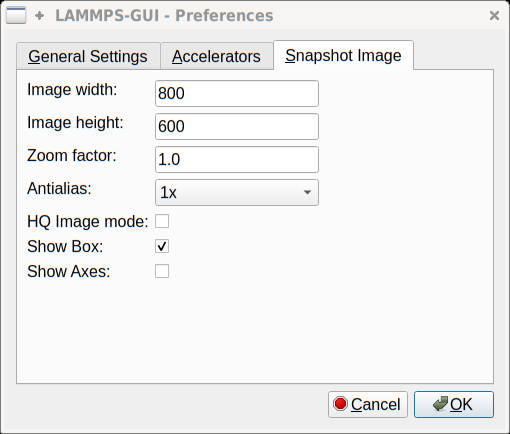
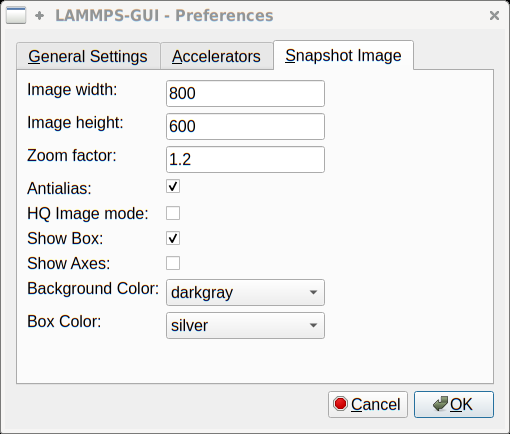
update docs

diff --git a/doc/src/Howto_lammps_gui.rst b/doc/src/Howto_lammps_gui.rst
@@ -1,29 +1,30 @@
 Using the LAMMPS GUI
 ====================
 
-LAMMPS GUI is essentially a simple graphical text editor that is linked
-to the :ref:`LAMMPS C-library interface <lammps_c_api>` and thus can run
-LAMMPS directly using the contents of the editor's text buffer as input.
+LAMMPS GUI is a simple graphical text editor that is linked to the
+:ref:`LAMMPS C-library interface <lammps_c_api>` and thus can run LAMMPS
+directly using the contents of the editor's text buffer as input.
 
-This is similar to what people usually would do to run LAMMPS using a
-regular text editor to edit the input and run the necessary command,
-possibly including the text editor, from a command line terminal window.
-That is quite effective when running LAMMPS on high-performance
-computing facilities and when you are very proficient with using the
-command line.  The main benefit of a GUI application is that this
-integrates very well with graphical desktop environments and many basic
-tasks can be done directly from within the GUI without switching to a
-text console and requiring external programs or scripts to extract data
-from the generated output.  This makes it easier for beginners to get
-started running simple LAMMPS simulation and thus very suitable for
-tutorials on LAMMPS and then makes it easier to switch to a full
+This is similar to what people traditionally would do to run LAMMPS:
+using a regular text editor to edit the input and run the necessary
+commands, possibly including the text editor, too, from a command line
+terminal window.  That is quite effective when running LAMMPS on
+high-performance computing facilities and when you are very proficient
+in using the command line.  The main benefit of a GUI application is
+that this integrates well with graphical desktop environments and many
+basic tasks can be done directly from within the GUI without switching
+to a text console or requiring external programs or scripts to extract
+data from the generated output.  This makes it easier for beginners to
+get started running simple LAMMPS simulations and thus very suitable for
+tutorials on LAMMPS.  But also makes it easier to switch to a full
 featured text editor and more sophisticated visualization and analysis
 tools.
 
 -----
 
 The following text provides a detailed tour of the features and
-functionality of the LAMMPS GUI.
+functionality of the LAMMPS GUI.  This document describes LAMMPS GUI
+version 1.2.
 
 Main window
 -----------
@@ -38,19 +39,19 @@ the following:
 
 There is the menu bar at the top, then the main editor buffer with the
 input file contents in the center with line numbers on the left and the
-input colored according to some LAMMPS syntax rules.  At the bottom is
-the status bar, which shows the status of LAMMPS execution on the right
-("Ready." when idle) and the current working directory on the left.
-The size of the main window will be stored when exiting and restored
-when starting again.  The name of the current file in the buffer is
-shown in the window title and the text `*modified*` is added in case
-the buffer has modifications that are not yet saved to a file.
+input colored according to the LAMMPS input file syntax.  At the bottom
+is the status bar, which shows the status of LAMMPS execution on the
+left ("Ready." when idle) and the current working directory on the
+right.  The size of the main window will be stored when exiting and
+restored when starting again.  The name of the current file in the
+buffer is shown in the window title and the text `*modified*` is added
+in case the buffer has modifications that are not yet saved to a file.
 
 Opening Files
 ^^^^^^^^^^^^^
 
 The LAMMPS GUI application will try to open the first command line
-argument as input file; further arguments are ignored.  When no
+argument as input file, further arguments are ignored.  When no
 argument is given LAMMPS GUI will start with an empty buffer.
 Files can also be opened via the ``File`` menu or by drag-and-drop
 of a file from a file manager to the editor window.  Only one
@@ -64,18 +65,18 @@ Running LAMMPS
 ^^^^^^^^^^^^^^
 
 From within the LAMMPS GUI main window LAMMPS can be started either from
-the ``Run`` menu or by the hotkey `Ctrl-Enter` (`Command-Enter` on macOS).
-LAMMPS is running in a separate thread, so the GUI will stay responsive
-yet is capable to interact with the calculation and access its data.
-It is important to note, that LAMMPS is using the contents of the input
-buffer for the run, **not** the file. Thus if there are unsaved changes
-in the buffer, they will be used.
+the ``Run`` menu or by the hotkey `Ctrl-Enter` (`Command-Enter` on
+macOS).  LAMMPS is running in a separate thread, so the GUI will stay
+responsive and thus is capable to interact with the calculation and
+access its data.  It is important to note, that LAMMPS is using the
+contents of the input buffer for the run, **not** the file it was read
+from. If there are unsaved changes in the buffer, they *will* be used.
 
 .. image:: JPG/lammps-gui-running.png
    :align: center
    :scale: 75%
 
-While LAMMPS is running the contents of the status bar change: on the
+While LAMMPS is running, the contents of the status bar change: on the
 left side there is a text indicating that LAMMPS is running, which will
 contain the selected number of threads, if thread-parallel acceleration
 was selected in the ``Preferences`` dialog.  On the right side, a
@@ -105,12 +106,13 @@ snapshot image into an image viewer window.
    :align: center
    :scale: 50%
 
-The image size and some image quality settings can be changed in the
-``Preferences`` dialog window.  From the image viewer window further
-adjustments can be made: the image can be rotated, one can zoom in
-or out, and it is possible to only display the atoms within a predefined
-group (default is "all").  After each change the image is rendered
-again and the display updated.
+The image size, some default image quality settings, and some colors
+can be changed in the ``Preferences`` dialog window.  From the image
+viewer window further adjustments can be made: high-quality rendering,
+antialiasing, display of box or axes, zoom factor. The the image can
+be rotated horizontally and vertically and it is possible to only
+display the atoms within a predefined group (default is "all").
+After each change, the image is rendered again and the display updated.
 
 
 Editor Functions

diff --git a/doc/src/Tools.rst b/doc/src/Tools.rst
@@ -645,16 +645,16 @@ LAMMPS GUI
 Overview
 ^^^^^^^^
 
-LAMMPS GUI is essentially a simple graphical text editor that is linked
-to the :ref:`LAMMPS C-library interface <lammps_c_api>` and thus can run
-LAMMPS directly using the contents of the editor's text buffer as input.
+LAMMPS GUI is a simple graphical text editor that is linked to the
+:ref:`LAMMPS C-library interface <lammps_c_api>` and thus can run LAMMPS
+directly using the contents of the editor's text buffer as input.
 
-This is similar to what people usually would do to run LAMMPS using a
-regular text editor to edit the input and running the necessary
-commands, possibly including the text editor, from a command line
-terminal window.  And this similarity is a design goal, making it easy
-for beginners to start with LAMMPS, but also making it easy to
-transition to use LAMMPS like most experienced users do.
+This is similar to what people traditionally would do to run LAMMPS:
+using a regular text editor to edit the input and run the necessary
+commands, possibly including the text editor, too, from a command line
+terminal window.  This similarity is a design goal. While making it easy
+for beginners to start with LAMMPS, it is also the intention to simplify
+the transition to workflows like most experienced LAMMPS users do.
 
 All features have been extensively exposed to hotkeys, so that there is
 also appeal for experienced LAMMPS users, too, especially for
